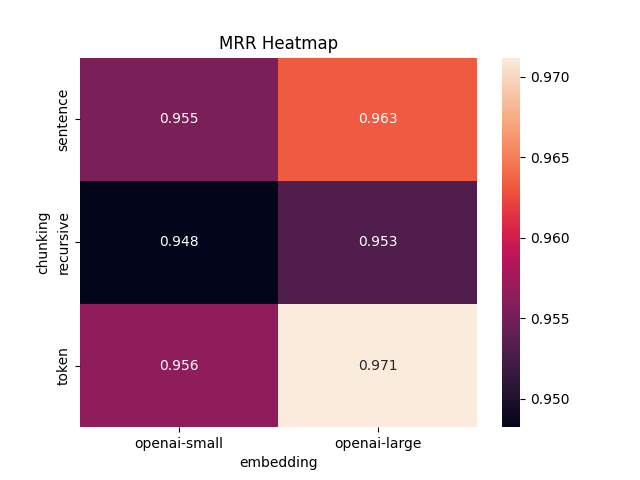
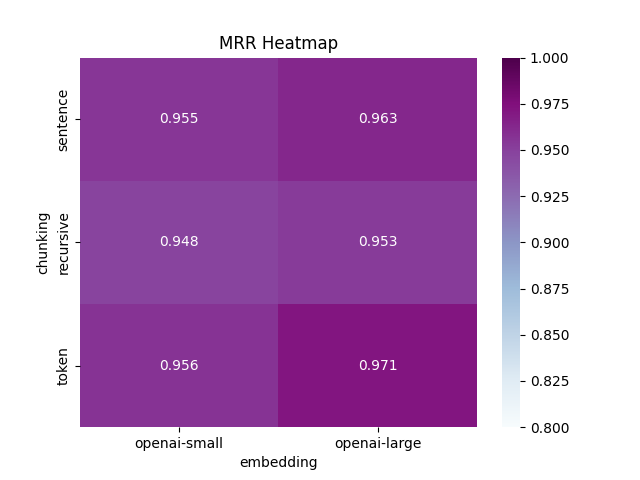
Same scale for heatmaps

diff --git a/analysis/evaluation_analysis.py b/analysis/evaluation_analysis.py
@@ -68,21 +68,21 @@ def create_heatmaps(summary: pd.DataFrame, output_dir: Path):
 
     # Recall heatmap
     plt.figure()
-    sns.heatmap(pivot_recall, annot=True, fmt=".3f")
+    sns.heatmap(pivot_recall, annot=True, fmt=".3f", vmin=0.8, vmax=1, cmap="BuPu")
     plt.title("Recall@k Heatmap")
     plt.savefig(output_dir / "heatmap_recall.png")
     plt.close()
 
     # MRR heatmap
     plt.figure()
-    sns.heatmap(pivot_mrr, annot=True, fmt=".3f")
+    sns.heatmap(pivot_mrr, annot=True, fmt=".3f", vmin=0.8, vmax=1, cmap="BuPu")
     plt.title("MRR Heatmap")
     plt.savefig(output_dir / "heatmap_mrr.png")
     plt.close()
 
     # nDCG heatmap
     plt.figure()
-    sns.heatmap(pivot_ndcg, annot=True, fmt=".3f")
+    sns.heatmap(pivot_ndcg, annot=True, fmt=".3f", vmin=0.8, vmax=1, cmap="BuPu")
     plt.title("nDCG Heatmap")
     plt.savefig(output_dir / "heatmap_ndcg.png")
     plt.close()